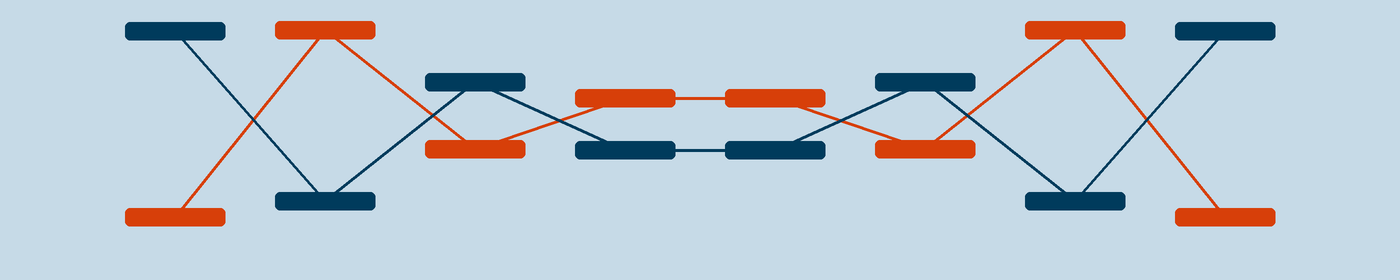
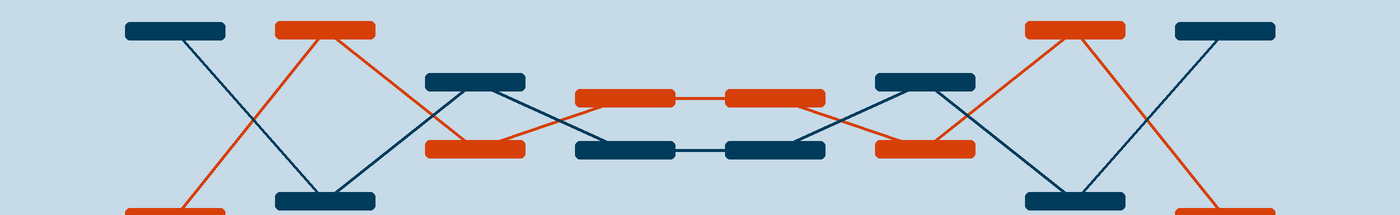
Explore: softer Sine by Sine waves behind the text; tighter wide-tile band
Claude-Session: https://claude.ai/code/session_013sx3wfmqissr3fcHHxVhKi

Changed region(s): [[0.0921, 0.1395, 0.9214, 1.0], [0.7064, 0.0558, 0.9214, 0.1116], [0.0921, 0.0558, 0.2764, 0.1116]]

diff --git a/_sass/_soundbendor.scss b/_sass/_soundbendor.scss
@@ -2702,7 +2702,7 @@ $sb-star-canvas: #003b5c;
   align-content: start;
   background: #101e2c;
 
-  > img { position: static; height: auto; aspect-ratio: 5; max-height: 140px; object-fit: contain; object-position: 50% 0; z-index: auto; }
+  > img { position: static; height: auto; aspect-ratio: 6.5; max-height: 120px; object-fit: contain; object-position: 50% 0; z-index: auto; }
   &::after { display: none; }
 }
 .sb-x-cur.sb-x-band .sb-x-kick { color: rgba(255, 255, 255, 0.9); }
